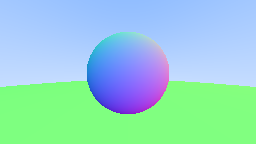
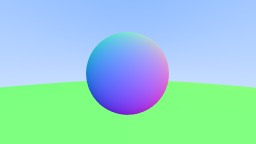
updated for separate camera interface

diff --git a/src/main.rs b/src/main.rs
@@ -1,17 +1,18 @@
 use clap::Parser;
 use image::RgbImage;
-// use rayon::prelude::*;
+use rand::prelude::*;
 
 mod vec;
 mod ray;
 mod hit;
 mod sphere;
+mod camera;
 
 use vec::{Vec3, Point3, Color};
 use ray::Ray;
 use hit::{Hit, World};
 use sphere::Sphere;
-
+use camera::Camera;
 
 
 // See https://github.com/heyjuvi/raytracinginrust
@@ -27,6 +28,10 @@ struct Args {
     /// Image height
     #[arg(short='H', long, default_value_t = 144)]
     height: u32,
+
+    /// Samples per pixel
+    #[arg(short='s', long, default_value_t = 100)]
+    samples_per_pixel: u64,
 
     /// Output path
     #[arg(short, long, default_value_t = String::from("image.png"))]
@@ -58,18 +63,10 @@ fn main() {
     world.push(Box::new(Sphere::new(Point3::new(0.0, 0.0, -1.0), 0.5)));
     world.push(Box::new(Sphere::new(Point3::new(0.0, -100.5, -1.0), 100.0)));
 
-    // set up viewport
-    let aspect_ratio = (args.width as f64) / (args.height as f64);
-    let viewport_height = 2.0;
-    let viewport_width = aspect_ratio * viewport_height;
-    let focal_length = 1.0;
+    // Camera
+    let cam = Camera::new(args.width, args.height);
 
-    let origin = Point3::new(0.0, 0.0, 0.0);
-    let horizontal = Vec3::new(viewport_width, 0.0, 0.0);
-    let vertical = Vec3::new(0.0, viewport_height, 0.0);
-    let lower_left_corner = origin - (horizontal / 2.0) - (vertical / 2.0) - Vec3::new(0.0, 0.0, focal_length);
-
-
+    let mut rng = rand::thread_rng();
     // use par_enumerate_pixels_mut for parallel execution
     img.enumerate_pixels_mut()
         .for_each(|(i, jj, pixel)|{
@@ -78,13 +75,20 @@ fn main() {
             //       aligned with the camera
             let j = args.height - jj;
 
-            let u = (i as f64) / ((args.width - 1) as f64);
-            let v = (j as f64) / ((args.height- 1) as f64);
+            let mut pixel_color = Color::new(0.0, 0.0, 0.0);
 
-            let r = Ray::new(origin, lower_left_corner + (u * horizontal) + (v * vertical) - origin);
+            for _ in 0..args.samples_per_pixel {
+                let random_u: f64 = rng.gen();
+                let random_v: f64 = rng.gen();
 
-            let pixel_color = ray_color(&r, &world);
-            *pixel = pixel_color.to_rgb();
+                let u = ((i as f64) + random_u) / ((args.width - 1) as f64);
+                let v = ((j as f64) + random_v) / ((args.height- 1) as f64);
+
+                let r = cam.get_ray(u, v);
+                pixel_color += ray_color(&r, &world);
+            }
+
+            *pixel = pixel_color.to_rgb(args.samples_per_pixel);
         });
 
     img.save(args.outpath).unwrap();

diff --git a/src/camera.rs b/src/camera.rs
@@ -1,0 +1,37 @@
+use super::vec::{Vec3, Point3};
+use super::ray::Ray;
+
+pub struct Camera {
+    origin: Point3,
+    horizontal: Vec3,
+    vertical: Vec3,
+    lower_left_corner: Point3
+}
+
+impl Camera {
+    pub fn new(img_width: u32, img_height: u32) -> Camera {
+        let aspect_ratio = (img_width as f64) / (img_height as f64);
+        let viewport_height = 2.0;
+        let viewport_width = aspect_ratio * viewport_height;
+        let focal_length = 1.0;
+
+        let orig = Point3::new(0.0, 0.0, 0.0);
+        let h = Vec3::new(viewport_width, 0.0, 0.0);
+        let v = Vec3::new(0.0, viewport_height, 0.0);
+        let llc = orig - (h / 2.0) - (v / 2.0) - Vec3::new(0.0, 0.0, focal_length);
+
+        Camera {
+            origin: orig,
+            horizontal: h,
+            vertical: v,
+            lower_left_corner: llc,
+        }
+    }
+
+    pub fn get_ray(&self, u: f64, v: f64) -> Ray {
+        Ray::new(
+            self.origin,
+            self.lower_left_corner + (u * self.horizontal) + (v * self.vertical) - self.origin
+        )
+    }
+}

diff --git a/src/vec.rs b/src/vec.rs
@@ -72,11 +72,12 @@ impl Vec3 {
         self / self.length()
     }
 
-    pub fn to_rgb(self) -> Rgb<u8> {
-        let r = 255.999 * self[0];
-        let g = 255.999 * self[1];
-        let b = 255.999 * self[2];
-        Rgb([r as u8, g as u8, b as u8])
+    pub fn to_rgb(self, samples_per_pixel: u64) -> Rgb<u8> {
+        let r = (256.0 * (self[0] / (samples_per_pixel as f64)).clamp(0.0, 0.999)) as u8;
+        let g = (256.0 * (self[1] / (samples_per_pixel as f64)).clamp(0.0, 0.999)) as u8;
+        let b = (256.0 * (self[2] / (samples_per_pixel as f64)).clamp(0.0, 0.999)) as u8;
+
+        Rgb([r, g, b])
     }
 }
 
